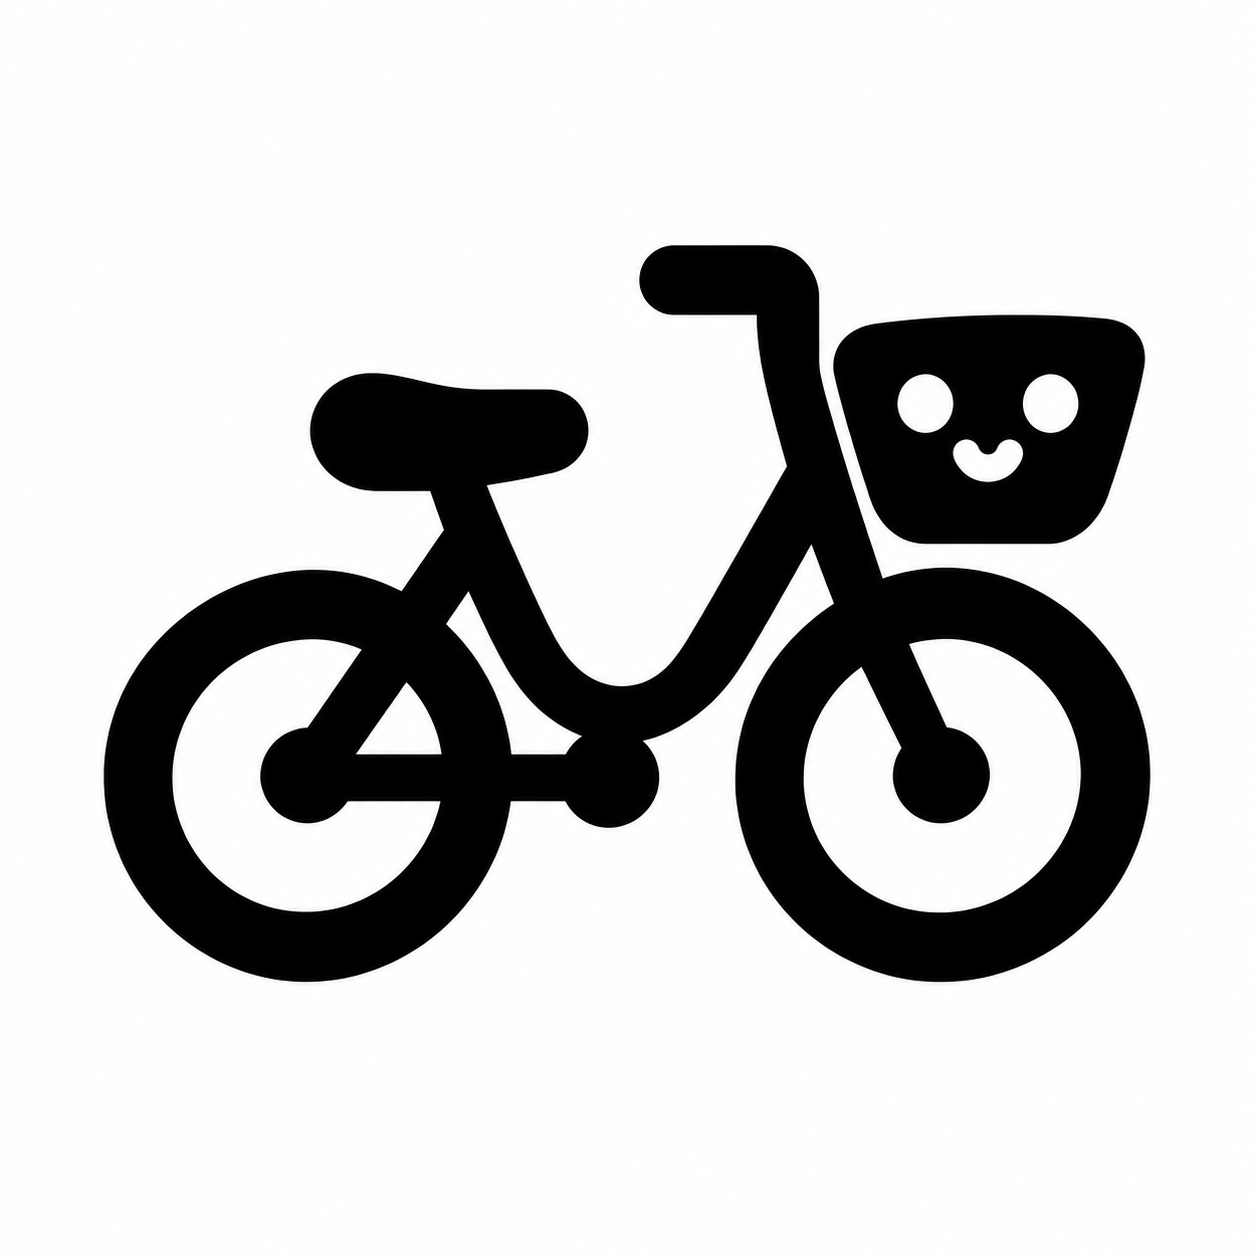
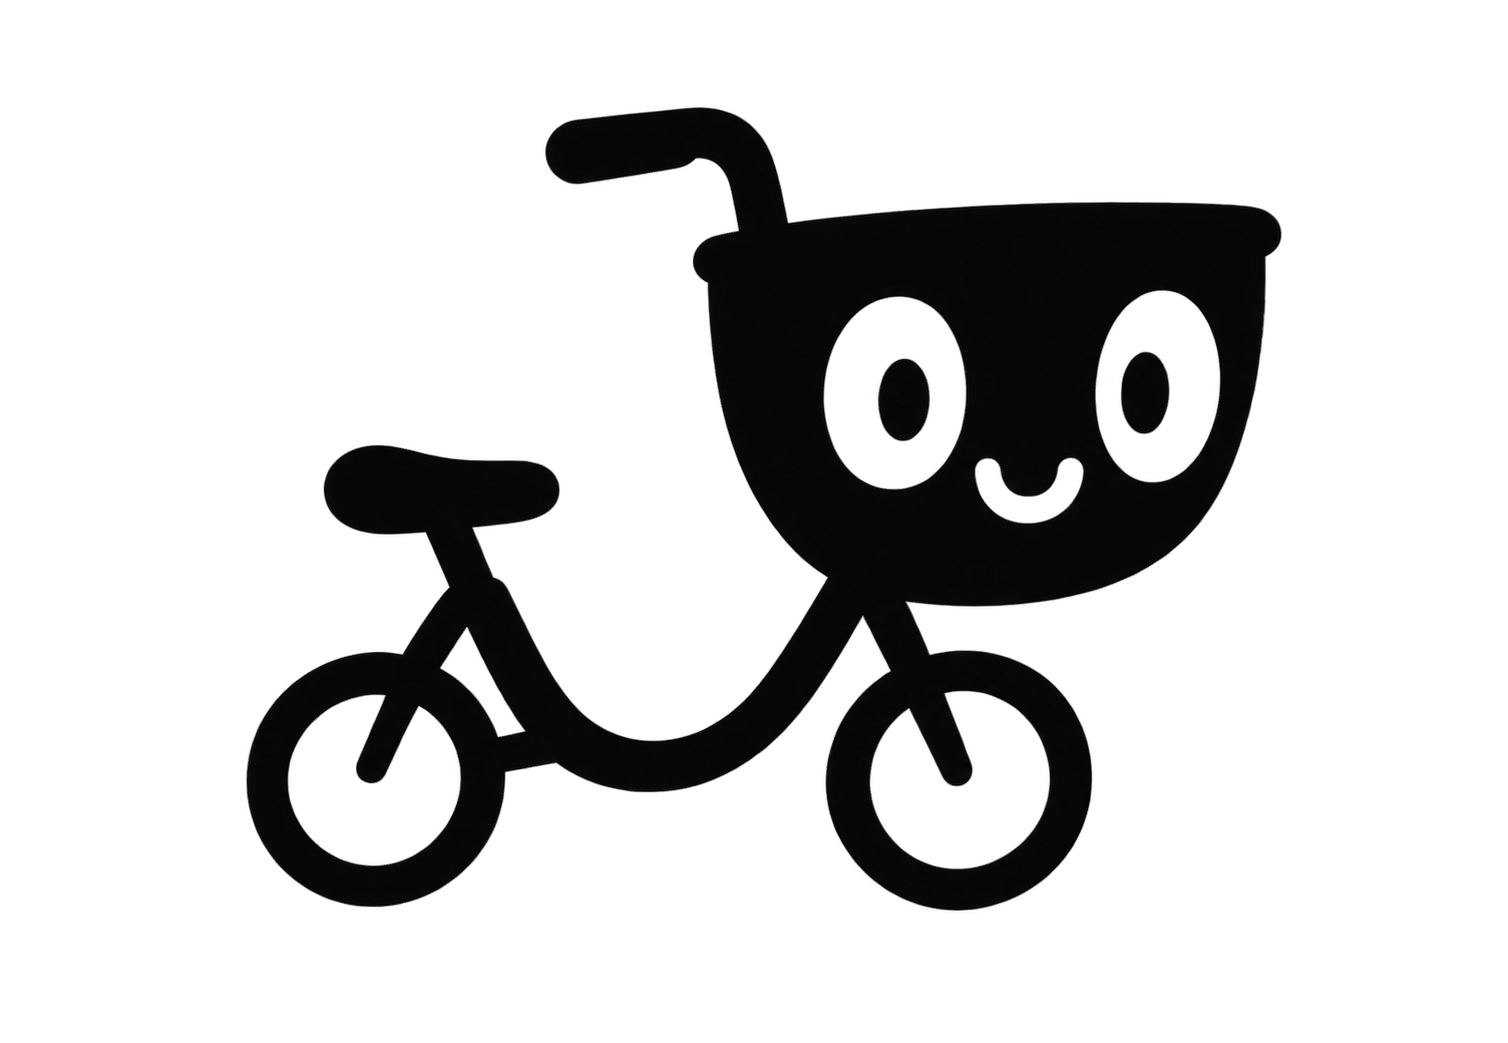
Release v0.6.4: refresh bicycle characters and drive menu actions

Changed region(s): [[0.0622, 0.092, 0.933, 0.8897]]

diff --git a/CharacterArtwork.swift b/CharacterArtwork.swift
@@ -188,9 +188,11 @@ enum CharacterArtwork {
         let phase = CGFloat(key) * .pi / 4
         let busy = state == .busy
         if moving { bicycleRoad(frame: key, awake: awake, busy: busy) }
-        let width: CGFloat = halloween ? 23.0 : 25.5
+        // The selected artwork gives the face most of the height. Fit its own
+        // proportions instead of enlarging the wheels to fill the horizontal slot.
+        let width = min(CGFloat(26), 17.8 * sprite.aspect)
         let unit = width / sprite.sourceBounds.width
-        let rect = NSRect(x: (30 - width) / 2, y: halloween ? 1.25 : 1.4,
+        let rect = NSRect(x: (30 - width) / 2, y: 1.4,
                           width: width, height: width / sprite.aspect)
         func point(_ x: CGFloat, _ y: CGFloat) -> NSPoint {
             NSPoint(x: rect.minX + (x - sprite.sourceBounds.minX) * unit,
@@ -203,12 +205,12 @@ enum CharacterArtwork {
                    y: rect.minY + (sprite.sourceBounds.maxY - source.maxY) * unit,
                    width: source.width * unit, height: source.height * unit)
         }
-        let basket = CGRect(x: 826, y: 305, width: 337, height: 248)
-        // The handlebar is beside the ghost's lowest lobe. Two disjoint cuts
-        // retain that handlebar without leaving a black fragment in the passenger.
-        let ghostCuts = [CGRect(x: 340, y: 185, width: 430, height: 349),
-                         CGRect(x: 340, y: 534, width: 375, height: 32)]
-        let cutouts = halloween ? ghostCuts : [basket]
+        let basket = CGRect(x: 686, y: 190, width: 612, height: 432)
+        // The rider and the handlebar stay together while riding. At rest this
+        // upper band settles onto the saddle; the complete lower bicycle is fixed.
+        let rider = CGRect(x: 365, y: 55, width: 720, height: 715)
+        let crankCut = CGRect(x: 700, y: 816, width: 118, height: 98)
+        let cutouts = halloween ? [rider, crankCut] : [basket]
         func sourcePart(_ cuts: [CGRect], excluding: Bool = false) {
             context.saveGState()
             if excluding { context.addRect(rect.insetBy(dx: -2, dy: -2)) }
@@ -217,10 +219,10 @@ enum CharacterArtwork {
             sprite.draw(in: rect)
             context.restoreGState()
         }
-        let back = halloween ? point(334, 895) : point(309, 775)
-        let front = halloween ? point(920, 895) : point(942, 775)
-        let crank = halloween ? point(613, 895) : point(611, 775)
-        let radius = (halloween ? CGFloat(192) : CGFloat(208)) * unit
+        let back = halloween ? point(581, 867) : point(375, 779)
+        let front = halloween ? point(955, 867) : point(959, 779)
+        let crank = halloween ? point(748, 862) : point(619, 766)
+        let radius = (halloween ? CGFloat(99) : CGFloat(130)) * unit
         let bounce: [CGFloat] = busy ? [0, -0.18, 0.05, 0.34, 0.20, -0.08, -0.13, 0.04]
                                              : [0, 0.12, 0.24, 0.15, 0, -0.08, -0.13, -0.05]
         let lean: [CGFloat] = busy ? [-0.018, -0.025, -0.01, 0.018, 0.025, 0.008, -0.015, -0.02]
@@ -232,14 +234,21 @@ enum CharacterArtwork {
         context.translateBy(x: crank.x, y: crank.y + bodyLift)
         context.rotate(by: bodyAngle)
         context.translateBy(x: -crank.x, y: -crank.y)
+        context.saveGState()
         if halloween {
-            context.saveGState()
-            // The bicycle base occupies only the lower band of the source. Its
-            // own clip also removes interpolation residue from the detached head.
-            context.clip(to: CGRect(x: 0, y: 0, width: 30, height: 15.5))
-            sourcePart(cutouts, excluding: true)
-            context.restoreGState()
-        } else { sourcePart(cutouts, excluding: true) }
+            // Bound the base to its own band as well as masking the rider.
+            // This removes interpolation residue from the former head at rest.
+            context.clip(to: CGRect(x: 0, y: 0, width: 30, height: region(rider).minY))
+        }
+        sourcePart(cutouts, excluding: true)
+        context.restoreGState()
+
+        if halloween {
+            // Restore the frame links across the baked-in crank that was masked
+            // above, then draw a single rotating crank at the new wheel scale.
+            let chain = point(700, 862), tube = point(786, 816)
+            line([(chain.x, chain.y), (crank.x, crank.y), (tube.x, tube.y)], width: 0.45)
+        }
 
         // A single spoke per wheel reads at 1x and has a full eight-frame rotation.
         // The opaque tire ring and the hub are never cut or stretched.
@@ -249,21 +258,21 @@ enum CharacterArtwork {
                 // matching the forward pedal rotation and leftward road motion.
                 let spoke = -phase - .pi / 4
                 line([(hub.x, hub.y), (hub.x + cos(spoke) * radius * 0.67,
-                      hub.y + sin(spoke) * radius * 0.67)], width: 0.6)
+                      hub.y + sin(spoke) * radius * 0.67)], width: 0.42)
             }
         }
         let pedalAngle = moving ? -phase : -CGFloat.pi / 3
-        let pedalLength: CGFloat = 1.7
+        let pedalLength: CGFloat = halloween ? 0.9 : 1.1
         let pedal = NSPoint(x: crank.x + cos(pedalAngle) * pedalLength,
                             y: crank.y + sin(pedalAngle) * pedalLength)
         let opposite = NSPoint(x: crank.x - cos(pedalAngle) * pedalLength,
                                y: crank.y - sin(pedalAngle) * pedalLength)
-        line([(opposite.x, opposite.y), (pedal.x, pedal.y)], width: 0.85)
-        line([(pedal.x - 0.85, pedal.y), (pedal.x + 0.85, pedal.y)], width: 0.85)
-        line([(opposite.x - 0.6, opposite.y), (opposite.x + 0.6, opposite.y)], width: 0.65)
+        line([(opposite.x, opposite.y), (pedal.x, pedal.y)], width: 0.5)
+        line([(pedal.x - 0.5, pedal.y), (pedal.x + 0.5, pedal.y)], width: 0.5)
+        line([(opposite.x - 0.4, opposite.y), (opposite.x + 0.4, opposite.y)], width: 0.4)
 
         if !halloween {
-            let anchor = point(863, 540)
+            let anchor = point(865, 600)
             let basketLean: [CGFloat] = busy ? [0.01, 0.025, -0.018, -0.055, -0.02, 0.035, 0.015, -0.015]
                                                     : [0, -0.008, -0.025, -0.012, 0.01, 0.02, 0.012, 0]
             context.saveGState()
@@ -273,52 +282,37 @@ enum CharacterArtwork {
             sourcePart([basket])
             context.restoreGState()
             // Solid mounting bracket joins the smiling basket to the front fork.
-            let fork = point(825, 535)
-            line([(fork.x, fork.y), (anchor.x + 0.4, anchor.y + 0.15)], width: 0.8)
+            let fork = point(872, 638)
+            line([(fork.x, fork.y), (anchor.x, anchor.y)], width: 0.7)
+        }
+        if halloween {
+            let saddle = point(730, 770)
+            let dissolve = max(0, min(1, (sleeping - 0.25) / 0.75))
+            let foldedOpacity = dissolve * dissolve * (3 - 2 * dissolve)
+            if foldedOpacity < 1 {
+                context.saveGState()
+                context.setAlpha(1 - foldedOpacity)
+                context.translateBy(x: saddle.x, y: saddle.y)
+                context.scaleBy(x: 1 - sleeping * 0.12, y: 1 - sleeping * 0.55)
+                context.translateBy(x: -saddle.x, y: -saddle.y)
+                sourcePart([rider])
+                context.restoreGState()
+            }
+            if foldedOpacity > 0, let resting = halloweenStore.bicycleRest {
+                // The hands and upper handlebar were part of the riding pose.
+                // Reveal a short bare handlebar when that pose folds away.
+                let stem = point(964, 770), grip = point(949, 682)
+                context.saveGState(); context.setAlpha(foldedOpacity)
+                line([(stem.x, stem.y), (grip.x, grip.y), (grip.x - 0.75, grip.y)], width: 0.45)
+                context.restoreGState()
+                let breath = state == .rest ? sin(CGFloat(pose.breathFrame) * .pi / 6) * 0.045 : 0
+                let restWidth: CGFloat = 9.5
+                let restHeight = restWidth / resting.aspect * (1 + breath)
+                resting.draw(in: NSRect(x: saddle.x - restWidth / 2, y: saddle.y - 0.05,
+                                        width: restWidth, height: restHeight), opacity: foldedOpacity)
+            }
         }
         context.restoreGState()
-
-        guard halloween else { return }
-        let ghostSource = CGRect(x: 354, y: 202, width: 403, height: 355)
-        let original = region(ghostSource)
-        let float: [CGFloat] = busy ? [0.05, -0.20, -0.08, 0.35, 0.75, 0.55, 0.20, 0]
-                                           : [0, 0.35, 0.65, 0.45, 0, -0.25, -0.35, -0.15]
-        let tilt: [CGFloat] = busy ? [0.10, 0.16, 0.20, 0.12, -0.01, -0.04, 0.02, 0.07]
-                                          : [0, 0.025, 0.05, 0.025, -0.02, -0.04, -0.025, 0]
-        let hem: [CGFloat] = busy ? [-0.02, 0.04, 0.13, 0.18, 0.07, -0.12, -0.14, -0.08]
-                                         : [-0.03, 0, 0.06, 0.10, 0.05, -0.02, -0.07, -0.06]
-        let ghostScale: CGFloat = 7.0 / original.width
-        let floatY = moving ? float[key] * 0.20 * awake : 0
-        let center = NSPoint(x: 14.1 - sleeping * 4.35 - (busy ? 0.2 * awake : 0),
-                             y: 16.55 + floatY - sleeping * 3.6)
-        let dissolve = max(0, min(1, (sleeping - 0.30) / 0.70))
-        let foldedOpacity = dissolve * dissolve * (3 - 2 * dissolve)
-        if foldedOpacity < 1 {
-            context.saveGState()
-            context.setAlpha(1 - foldedOpacity)
-            context.translateBy(x: center.x, y: center.y)
-            context.rotate(by: moving ? tilt[key] * 0.45 * awake : 0)
-            context.scaleBy(x: ghostScale * (1 - sleeping * 0.10), y: ghostScale * (1 - sleeping * 0.52))
-            context.translateBy(x: -original.midX, y: -original.midY)
-            // A shear below the face has zero displacement at its seam; the cloth
-            // trails one pose behind without detaching or warping either eye.
-            let seam = point(354, 417).y
-            sourcePart([CGRect(x: 340, y: 185, width: 430, height: 232)])
-            context.saveGState()
-            let shear = moving ? hem[key] * 0.5 * awake : 0
-            context.concatenate(CGAffineTransform(a: 1, b: 0, c: shear, d: 1, tx: -shear * seam, ty: 0))
-            sourcePart([CGRect(x: 340, y: 417, width: 430, height: 117), ghostCuts[1]])
-            context.restoreGState()
-            context.restoreGState()
-        }
-        if foldedOpacity > 0, let resting = halloweenStore.bicycleRest {
-            let breath = state == .rest ? sin(CGFloat(pose.breathFrame) * .pi / 6) * 0.08 : 0
-            let restWidth: CGFloat = 7.3
-            let restHeight = restWidth / resting.aspect * (1 + breath)
-            let saddle = point(469, 563)
-            resting.draw(in: NSRect(x: saddle.x - restWidth / 2, y: saddle.y - 0.2,
-                                    width: restWidth, height: restHeight), opacity: foldedOpacity)
-        }
     }
 
     private enum Gait {

diff --git a/AppDelegate.swift b/AppDelegate.swift
@@ -1048,7 +1048,7 @@ final class AppDelegate: NSObject, NSApplicationDelegate, NSMenuDelegate, UNUser
     /// LinearMouse의 상태 정보처럼 드라이브 동작을 메뉴 위쪽에 두 줄로 한 번만 흐리게 표시한다.
     /// action 없는 native item이라 클릭 영역이나 키보드 실행 경로를 추가하지 않는다.
     private func driveUsageHintMenuItem() -> NSMenuItem {
-        let usage = String(localized: "Click: Open in Finder\n⌘-Click: Eject")
+        let usage = String(localized: "Click: Open in Finder\n⌘-Click / Right-Click: Eject")
         let item = NSMenuItem(title: usage, action: nil, keyEquivalent: "")
         item.attributedTitle = NSAttributedString(
             string: usage,
@@ -1057,7 +1057,7 @@ final class AppDelegate: NSObject, NSApplicationDelegate, NSMenuDelegate, UNUser
                 .foregroundColor: NSColor.secondaryLabelColor
         ])
         item.isEnabled = false
-        item.setAccessibilityLabel(String(localized: "Click to open in Finder.  ⌘+click to eject."))
+        item.setAccessibilityLabel(String(localized: "Click to open in Finder. ⌘+click or right-click to eject."))
         return item
     }
 
@@ -1264,7 +1264,7 @@ final class AppDelegate: NSObject, NSApplicationDelegate, NSMenuDelegate, UNUser
                 item.attributedTitle = driveMenuItemTitle(primary: row.primary,
                                                           secondary: row.secondary)
                 // 기존 읽기/쓰기 경고를 보존하면서 클릭 동작을 안내한다.
-                let actionHint = String(localized: "Click to open in Finder.  ⌘+click to eject.")
+                let actionHint = String(localized: "Click to open in Finder. ⌘+click or right-click to eject.")
                 if let activityHint = activityTooltip(writing: row.activity.writing,
                                                        reading: row.activity.reading) {
                     item.toolTip = "\(activityHint)\n\(actionHint)"
@@ -1971,7 +1971,7 @@ final class AppDelegate: NSObject, NSApplicationDelegate, NSMenuDelegate, UNUser
         return alert.runModal() == .alertFirstButtonReturn
     }
 
-    /// 일반 클릭은 Finder에서 열고, 정확한 Command+좌클릭만 기존 개별 추출로 보낸다.
+    /// 일반 클릭은 Finder에서 열고, 정확한 Command+좌클릭 또는 보조키 없는 우클릭은 개별 추출로 보낸다.
     /// event는 메뉴 action 진입 즉시 snapshot해 이후 main-loop event 변화와 분리한다.
     @objc private func activateDriveMenuItem(_ sender: NSMenuItem) {
         guard let payload = sender.representedObject as? DriveMenuItemPayload else { return }
@@ -1979,9 +1979,14 @@ final class AppDelegate: NSObject, NSApplicationDelegate, NSMenuDelegate, UNUser
         let name = payload.displayName
         let event = NSApp.currentEvent
         let flags = event?.modifierFlags.intersection(.deviceIndependentFlagsMask) ?? []
-        let isPrimaryClick = event?.type == .leftMouseDown || event?.type == .leftMouseUp
+        let click: DriveMenuClickKind
+        switch event?.type {
+        case .leftMouseDown, .leftMouseUp: click = .primary
+        case .rightMouseDown, .rightMouseUp: click = .secondary
+        default: click = .other
+        }
         let action = DriveMenuActionPolicy.action(
-            isPrimaryClick: isPrimaryClick,
+            click: click,
             hasCommand: flags.contains(.command),
             hasOption: flags.contains(.option),
             hasControl: flags.contains(.control),
@@ -2011,7 +2016,7 @@ final class AppDelegate: NSObject, NSApplicationDelegate, NSMenuDelegate, UNUser
         )
     }
 
-    /// 개별 드라이브 추출 (Command+메뉴 아이템 클릭).
+    /// 개별 드라이브 추출 (Command+클릭 또는 우클릭).
     private func ejectOne(url: URL, name: String) {
         let path = url.path
         // 쓰는 중이면 강제 추출 전에 확인 (수동 경로 전용 가드).

diff --git a/Tests/CharacterArtworkTests.swift b/Tests/CharacterArtworkTests.swift
@@ -310,9 +310,9 @@ import AppKit
             precondition(areas.filter {Double($0)>=significant}.count==1,
                 "Squid push-off retains both large tentacles on the body: \(state) frame \(frame), components \(areas)")
         }}
-        // The floating ghost must remain a whole, separate figure through the
-        // active loop. Inspect gallery-resolution pixels to avoid confusing 1x
-        // antialiasing with a clipped source region or a ghost joined to the bike.
+        // The selected B rider holds the handlebar. Its body and bicycle must
+        // remain connected, with no fragments introduced by the sleep/crank masks.
+        // Inspect gallery pixels so 1x antialiasing does not hide a broken joint.
         for state in [CharacterMotionState.unknown, .active, .busy] {
             for frame in 0..<8 {
                 let icon = CharacterArtwork.image(visual: .halloween(.bicycle, animated: true), state: state, frame: frame,
@@ -320,12 +320,12 @@ import AppKit
                     halloweenStore: store.halloweenArtwork, renderSize: 64, basicStore: store.basicArtwork)!
                 let bitmap = icon.representations.last as! NSBitmapImageRep
                 // Exclude the road band (below drawing y=2) from the silhouette
-                // count, keeping the floating ghost/body separation check intact.
+                // count, keeping the rider/body attachment check intact.
                 // The 30 x 21 drawing has 4.5 points of padding in a square tile.
                 let roadRows = Int(ceil(Double(bitmap.pixelsHigh) * 6.5 / 30))
                 let componentAreas=inkComponents(bitmap,threshold:0.3,excludingBottomRows:roadRows)
-                precondition(componentAreas.filter { $0 > 4 }.count == 2,
-                    "Awake bicycle has exactly two intact silhouettes: floating ghost and bicycle; \(state) frame \(frame), components \(componentAreas)")
+                precondition(componentAreas.filter { $0 > 4 }.count == 1,
+                    "The B rider and bicycle stay attached without mask fragments; \(state) frame \(frame), components \(componentAreas)")
             }
         }
         // The ghost folds onto the saddle while the original bicycle stays unchanged.
@@ -345,9 +345,10 @@ import AppKit
                     minY = min(minY, y); maxY = max(maxY, y)
                 }
             }
-            // In the fixed 30 × 21 drawing, the frame below y=11 stays still.
+            // The selected B bike is smaller: its lower wheel/frame band below
+            // y=5 stays still while the rider folds above the saddle at y=5.3.
             // Gallery canvases center that drawing vertically in a square tile.
-            let firstBikeRow = Int(ceil(Double(reference.pixelsHigh) * (1 - (4.5 + 11) / 30)))
+            let firstBikeRow = Int(ceil(Double(reference.pixelsHigh) * (1 - (4.5 + 5) / 30)))
             for image in ghostSleepFrames.dropFirst() {
                 let bitmap = image.representations[representationIndex] as! NSBitmapImageRep
                 for y in firstBikeRow..<reference.pixelsHigh {

diff --git a/Tests/SettingsBehaviorPolicyTests.swift b/Tests/SettingsBehaviorPolicyTests.swift
@@ -34,7 +34,7 @@ private enum SettingsBehaviorPolicyTests {
         testOneShotCallbackUnderConcurrency()
         testPremiumMenuPolicy()
         testDriveUsageHintPresentation()
-        testDriveMenuActionRequiresExactCommandPrimaryClick()
+        testDriveMenuActionRequiresExactEjectClick()
         print("SettingsBehaviorPolicyTests: PASS")
     }
 
@@ -215,14 +215,14 @@ private enum SettingsBehaviorPolicyTests {
                "multiple mounted drives still show only the shared section-level hint")
     }
 
-    private static func testDriveMenuActionRequiresExactCommandPrimaryClick() {
-        func action(primary: Bool = true,
+    private static func testDriveMenuActionRequiresExactEjectClick() {
+        func action(click: DriveMenuClickKind = .primary,
                     command: Bool = false,
                     option: Bool = false,
                     control: Bool = false,
                     shift: Bool = false) -> DriveMenuAction {
             DriveMenuActionPolicy.action(
-                isPrimaryClick: primary,
+                click: click,
                 hasCommand: command,
                 hasOption: option,
                 hasControl: control,
@@ -232,10 +232,22 @@ private enum SettingsBehaviorPolicyTests {
 
         expect(action() == .openInFinder,
                "a plain primary click opens Finder")
-        expect(action(primary: false, command: true) == .openInFinder,
+        expect(action(click: .other) == .openInFinder,
+               "a missing mouse event opens Finder")
+        expect(action(click: .other, command: true) == .openInFinder,
                "keyboard or Accessibility activation cannot eject")
         expect(action(command: true) == .eject,
                "an exact Command primary click ejects")
+        expect(action(click: .secondary) == .eject,
+               "an unmodified secondary click ejects")
+        expect(action(click: .secondary, command: true) == .openInFinder,
+               "Command-secondary click fails safe to Finder")
+        expect(action(click: .secondary, option: true) == .openInFinder,
+               "Option-secondary click fails safe to Finder")
+        expect(action(click: .secondary, control: true) == .openInFinder,
+               "Control-secondary click fails safe to Finder")
+        expect(action(click: .secondary, shift: true) == .openInFinder,
+               "Shift-secondary click fails safe to Finder")
         expect(action(command: true, option: true) == .openInFinder,
                "Command-Option click fails safe to Finder")
         expect(action(command: true, control: true) == .openInFinder,

diff --git a/SettingsBehaviorPolicy.swift b/SettingsBehaviorPolicy.swift
@@ -274,23 +274,26 @@ enum DriveUsageHintPresentationPolicy {
     }
 }
 
+enum DriveMenuClickKind {
+    case primary
+    case secondary
+    case other
+}
+
 enum DriveMenuActionPolicy {
-    /// Eject is destructive, so it requires positive proof of an exact Command + primary click.
-    /// Keyboard/Accessibility activation, a missing event, or any additional primary modifier
-    /// falls back to opening Finder.
-    static func action(isPrimaryClick: Bool,
+    /// Eject requires an exact Command + primary click or an unmodified secondary click.
+    /// Keyboard/Accessibility activation, a missing event, and mixed modifiers open Finder.
+    static func action(click: DriveMenuClickKind,
                        hasCommand: Bool,
                        hasOption: Bool,
                        hasControl: Bool,
                        hasShift: Bool) -> DriveMenuAction {
-        guard isPrimaryClick,
-              hasCommand,
-              !hasOption,
-              !hasControl,
-              !hasShift else {
-            return .openInFinder
+        guard !hasOption, !hasControl, !hasShift else { return .openInFinder }
+        switch click {
+        case .primary: return hasCommand ? .eject : .openInFinder
+        case .secondary: return hasCommand ? .openInFinder : .eject
+        case .other: return .openInFinder
         }
-        return .eject
     }
 }
 
